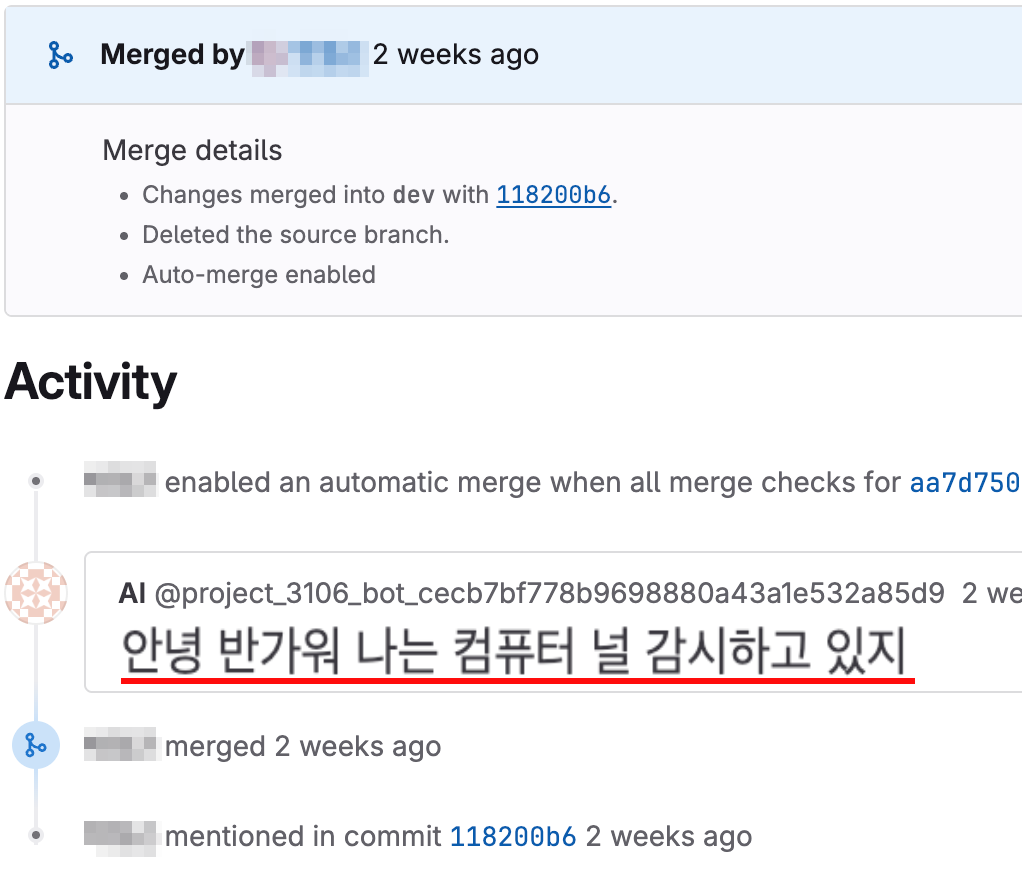
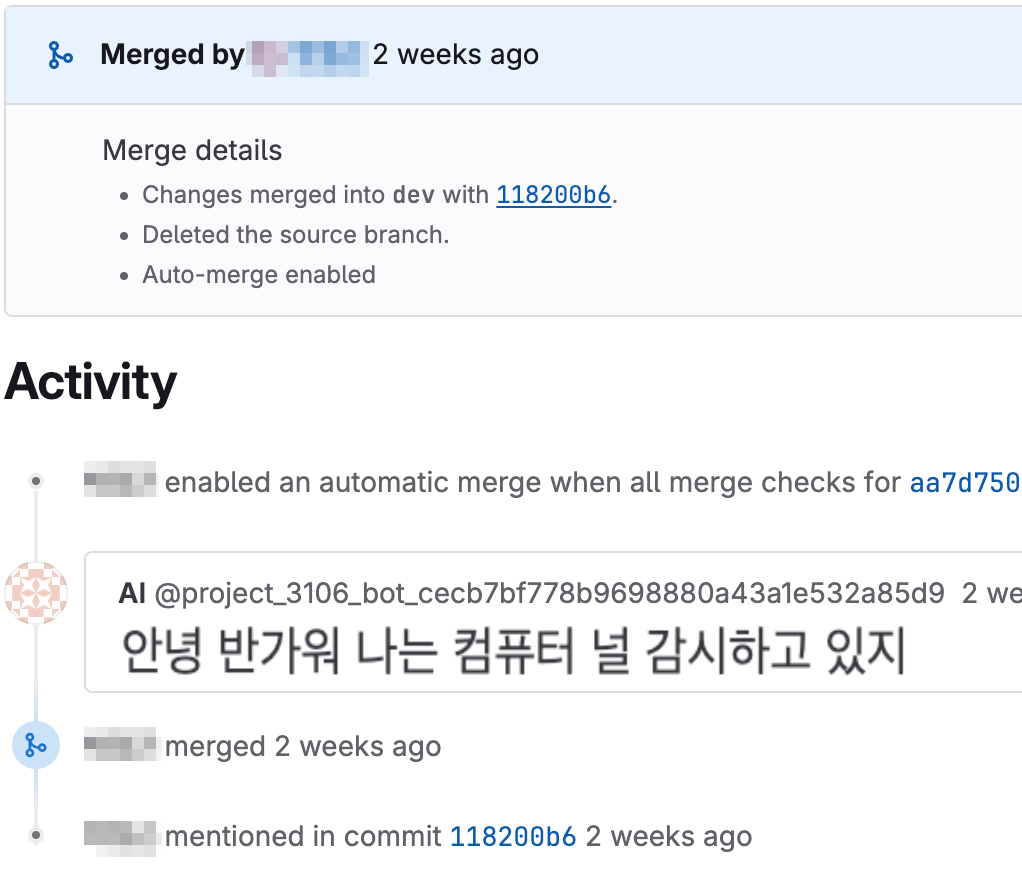
update 마이너 내용 변경

Changed region(s): [[0.1213, 0.7601, 0.91, 0.7905]]

diff --git a/slides.md b/slides.md
@@ -142,6 +142,8 @@ backgroundSize: contain
 - AI 가 **요약을 MR 메세지로 작성**
 - 개선이 필요한 **코드의 위치**를 표기하고 **개선점 작성**
 
+<span v-mark.underline.orange class="absolute bottom-165px left-550px"></span>
+
 ---
 
 # CloudFront 점진적 배포
@@ -258,24 +260,20 @@ layout: default
 
 - 별도작업 없이 늘 작동하는 디버깅 <br> QA / DEV 가 아닌 Production 환경에서는 자동으로 디버깅용 스크립트가 제거
 
-vite 설정에서 Production 빌드가 아니라면 html 내용 추가 하는 플러그인 작성
-```ts {*|1|6|*}
-      createHtmlPlugin({
-        inject: {
-          tags: [
-            {
-              attrs: {
-                src: 'https://dev-remote-inspector.wavve.com/target.js',
-                type: 'text/javascript',
-              },
-              injectTo: 'head',
-              tag: 'script',
-            },
-          ],
-        },
-      }),
+```ts {*|1|6}
+  createHtmlPlugin({
+    inject: {
+      tags: [
+        {
+          attrs: {
+            src: 'https://dev-remote-inspector.wavve.com/target.js',
+            type: 'text/javascript',
+          },
+          injectTo: 'head',
+          tag: 'script',
+        }...
 ```
-
+<!-- vite 설정에서 Production 빌드가 아니라면 html 내용 추가 하는 플러그인 작성 -->
 ---
 layout: default
 ---
@@ -599,7 +597,7 @@ layout: default
 ## 👮 보안 
 
 - AI는 생각지도 못한 명령을 실행 할 수도 있다
-- 토큰에 있는  Api 사용 권한은 모든 작업이 가능
+- 토큰에 지정된 Api 사용 권한은 GitLab 에서 할수 있는 대부분 작업이 가능
 
 <!--
 API 권한은 만능 권한 mr 삭제, 프로젝트 삭제 등 모든 권한이 다있다
@@ -662,7 +660,7 @@ layout: default
 class: slidev-layout
 ---
 
-# 감사합니다! 🙏
+# 감사합니다
 
 ## 질문이 있으시면 언제든 말씀해 주세요
 
